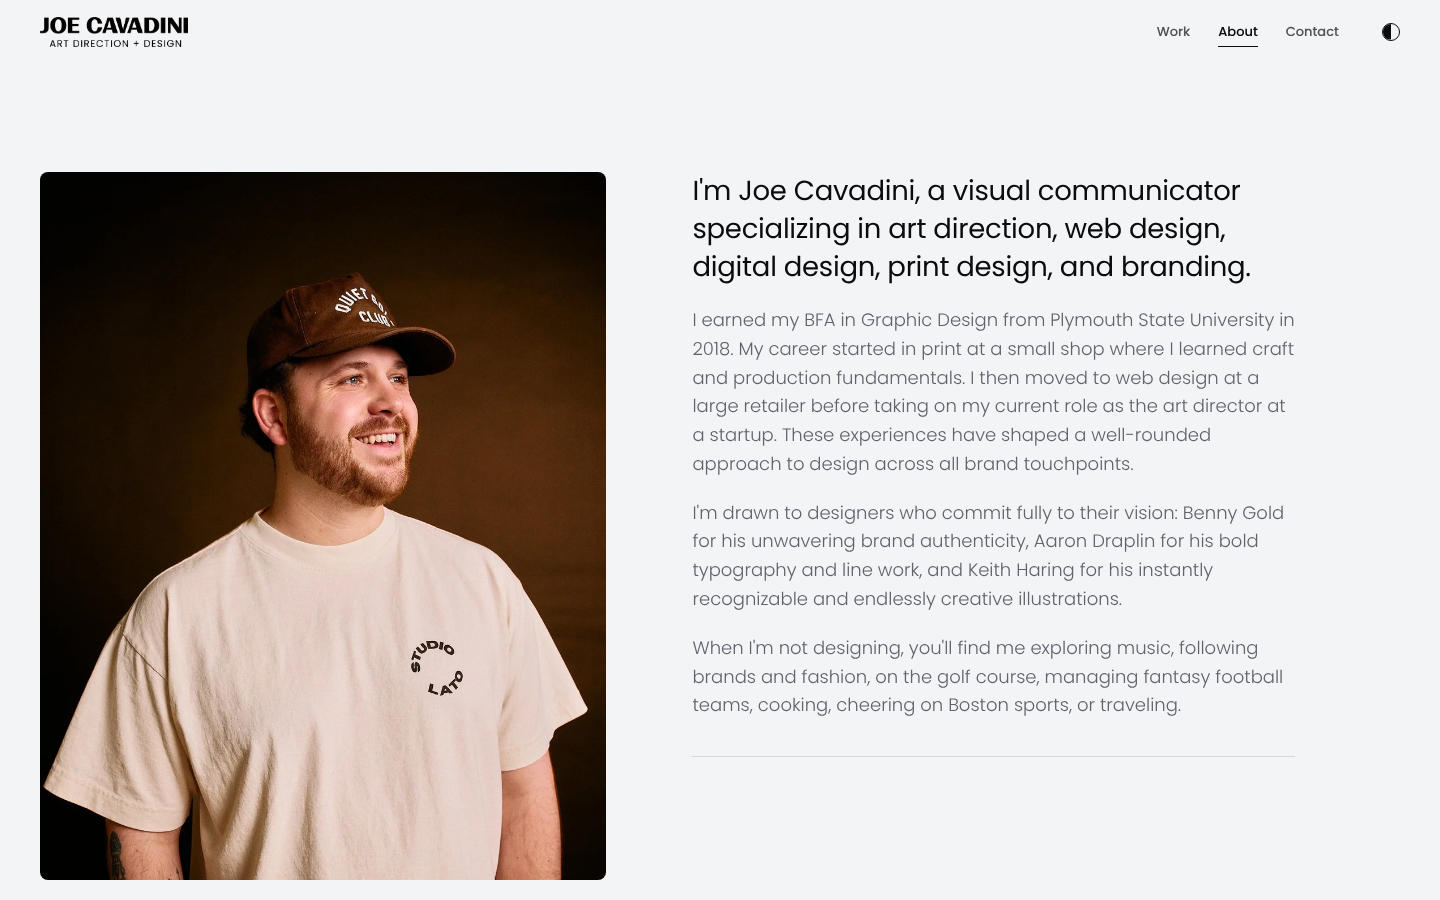
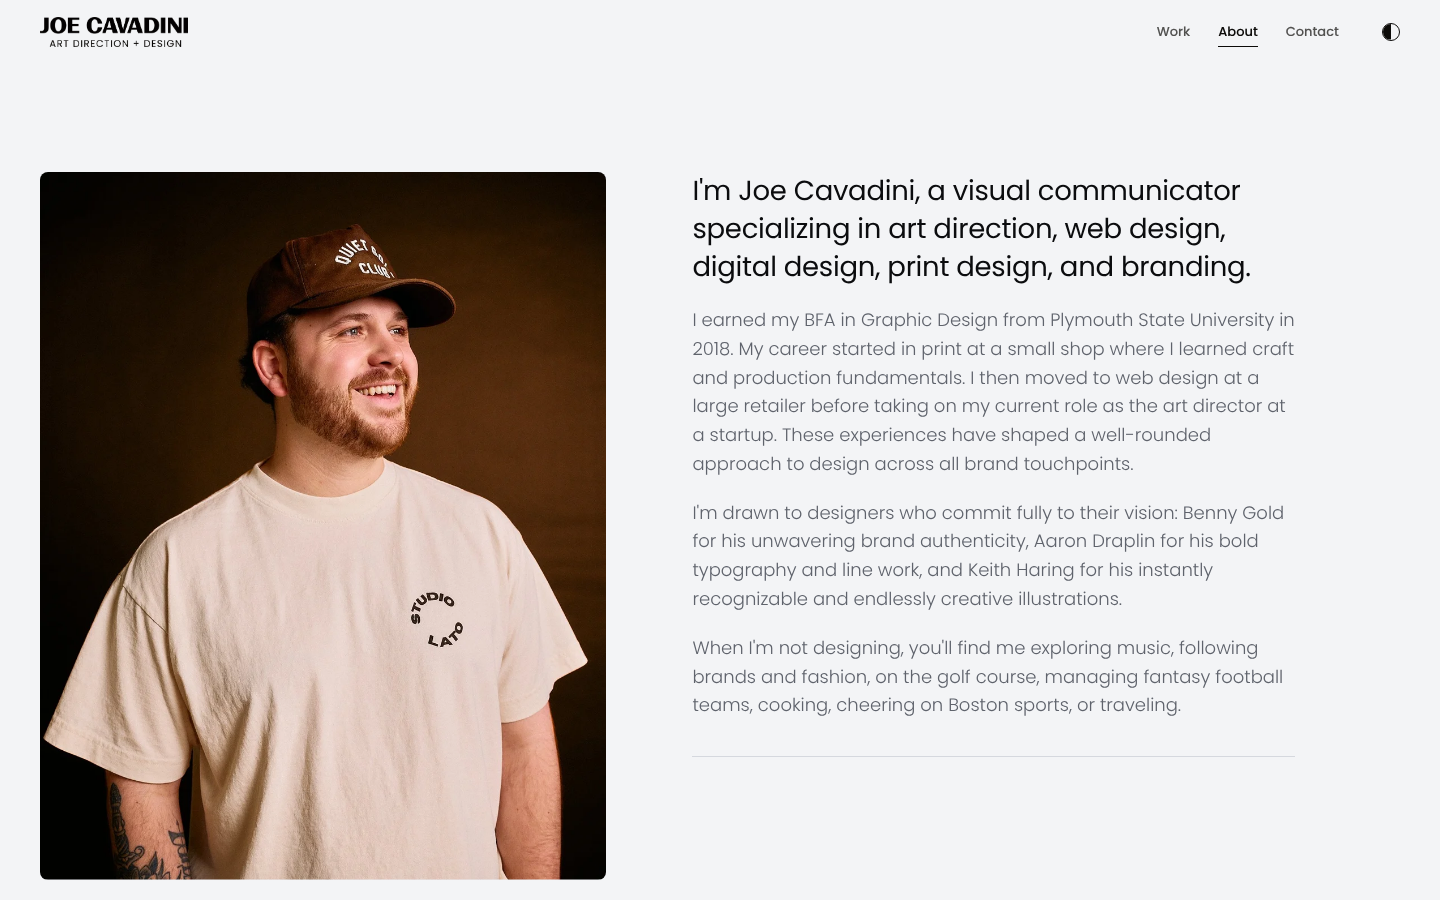
About: Resume and socials under the portrait, pinned together
Claude-Session: https://claude.ai/code/session_01XMS5rHrtm2ofgyqyFcHa86

Changed region(s): [[0.0312, 0.2489, 0.4062, 0.9956], [0.2812, 0.6533, 0.3125, 0.7778], [0.3125, 0.28, 0.3438, 0.3111]]

diff --git a/about/index.html b/about/index.html
@@ -12,7 +12,7 @@
 <meta name="twitter:card" content="summary_large_image">
 <meta name="theme-color" content="#f3f4f6">
 <link rel="preload" href="../assets/fonts/poppins-500.woff2" as="font" type="font/woff2" crossorigin>
-<link rel="stylesheet" href="../assets/css/site.css?v=2bc663f0">
+<link rel="stylesheet" href="../assets/css/site.css?v=ac9d2e9e">
 <script>document.documentElement.classList.replace('no-js','js');try{var t=localStorage.getItem('jc-theme');if(t)document.documentElement.dataset.theme=t}catch(e){}</script>
 </head>
 <body class="p-about">
@@ -41,12 +41,14 @@
 
 <h1 class="sr-only">About Joe Cavadini</h1>
 <section class="about wrap">
-  <figure class="about__portrait reveal-media"><img class="" src="../assets/img/sq/49ade822-b845-4794-b23e-b4b9fda7a83d/SKStudio_Joe0%2B1%2Bedit.jpg" srcset="../assets/img/sq/49ade822-b845-4794-b23e-b4b9fda7a83d/SKStudio_Joe0%2B1%2Bedit-1000.jpg 1000w, ../assets/img/sq/49ade822-b845-4794-b23e-b4b9fda7a83d/SKStudio_Joe0%2B1%2Bedit.jpg 2500w" sizes="(min-width: 900px) 40vw, 100vw" alt="Portrait of Joe Cavadini" fetchpriority="high" decoding="async"></figure>
+  <div class="about__side">
+    <figure class="about__portrait reveal-media"><img class="" src="../assets/img/sq/49ade822-b845-4794-b23e-b4b9fda7a83d/SKStudio_Joe0%2B1%2Bedit.jpg" srcset="../assets/img/sq/49ade822-b845-4794-b23e-b4b9fda7a83d/SKStudio_Joe0%2B1%2Bedit-1000.jpg 1000w, ../assets/img/sq/49ade822-b845-4794-b23e-b4b9fda7a83d/SKStudio_Joe0%2B1%2Bedit.jpg 2500w" sizes="(min-width: 900px) 40vw, 100vw" alt="Portrait of Joe Cavadini" fetchpriority="high" decoding="async"></figure>
+    <div class="about__links"><a class="btn btn--solid" href="../resume/">Resume</a><span class="social "><a class="social__a" href="https://www.linkedin.com/in/joecavadini/" target="_blank" rel="noopener" aria-label="LinkedIn"><svg viewBox="0 0 24 24" aria-hidden="true"><path d="M20.45 20.45h-3.56v-5.57c0-1.33-.02-3.04-1.85-3.04-1.85 0-2.14 1.45-2.14 2.94v5.67H9.34V9h3.42v1.56h.05c.48-.9 1.64-1.85 3.37-1.85 3.6 0 4.27 2.37 4.27 5.46v6.28zM5.34 7.43a2.06 2.06 0 1 1 0-4.13 2.06 2.06 0 0 1 0 4.13zM7.12 20.45H3.56V9h3.56v11.45zM22.22 0H1.77C.79 0 0 .77 0 1.73v20.54C0 23.23.79 24 1.77 24h20.45c.98 0 1.78-.77 1.78-1.73V1.73C24 .77 23.2 0 22.22 0z"/></svg></a><a class="social__a" href="https://www.instagram.com/joecav_dbg/" target="_blank" rel="noopener" aria-label="Instagram"><svg viewBox="0 0 24 24" aria-hidden="true"><path d="M12 2.16c3.2 0 3.58.01 4.85.07 1.17.05 1.8.25 2.23.41.56.22.96.48 1.38.9.42.42.68.82.9 1.38.16.42.36 1.06.41 2.23.06 1.27.07 1.65.07 4.85s-.01 3.58-.07 4.85c-.05 1.17-.25 1.8-.41 2.23-.22.56-.48.96-.9 1.38-.42.42-.82.68-1.38.9-.42.16-1.06.36-2.23.41-1.27.06-1.65.07-4.85.07s-3.58-.01-4.85-.07c-1.17-.05-1.8-.25-2.23-.41a3.72 3.72 0 0 1-1.38-.9 3.72 3.72 0 0 1-.9-1.38c-.16-.42-.36-1.06-.41-2.23C2.17 15.58 2.16 15.2 2.16 12s.01-3.58.07-4.85c.05-1.17.25-1.8.41-2.23.22-.56.48-.96.9-1.38.42-.42.82-.68 1.38-.9.42-.16 1.06-.36 2.23-.41C8.42 2.17 8.8 2.16 12 2.16zM12 0C8.74 0 8.33.01 7.05.07 5.78.13 4.9.33 4.14.63c-.79.3-1.46.72-2.13 1.38A5.88 5.88 0 0 0 .63 4.14C.33 4.9.13 5.78.07 7.05.01 8.33 0 8.74 0 12s.01 3.67.07 4.95c.06 1.27.26 2.15.56 2.91.3.79.72 1.46 1.38 2.13a5.88 5.88 0 0 0 2.13 1.38c.76.3 1.64.5 2.91.56C8.33 23.99 8.74 24 12 24s3.67-.01 4.95-.07c1.27-.06 2.15-.26 2.91-.56a5.88 5.88 0 0 0 2.13-1.38 5.88 5.88 0 0 0 1.38-2.13c.3-.76.5-1.64.56-2.91.06-1.28.07-1.69.07-4.95s-.01-3.67-.07-4.95c-.06-1.27-.26-2.15-.56-2.91a5.88 5.88 0 0 0-1.38-2.13A5.88 5.88 0 0 0 19.86.63C19.1.33 18.22.13 16.95.07 15.67.01 15.26 0 12 0zm0 5.84a6.16 6.16 0 1 0 0 12.32 6.16 6.16 0 0 0 0-12.32zM12 16a4 4 0 1 1 0-8 4 4 0 0 1 0 8zm6.4-11.85a1.44 1.44 0 1 0 0 2.88 1.44 1.44 0 0 0 0-2.88z"/></svg></a></span></div>
+  </div>
   <div class="about__copy">
     <p class="about__lead" data-reveal>I'm Joe Cavadini, a visual communicator specializing in art direction, web design, digital design, print design, and branding.</p>
     <p data-reveal>I earned my BFA in Graphic Design from Plymouth State University in 2018. My career started in print at a small shop where I learned craft and production fundamentals. I then moved to web design at a large retailer before taking on my current role as the art director at a startup. These experiences have shaped a well-rounded approach to design across all brand touchpoints.</p><p data-reveal>I'm drawn to designers who commit fully to their vision: Benny Gold for his unwavering brand authenticity, Aaron Draplin for his bold typography and line work, and Keith Haring for his instantly recognizable and endlessly creative illustrations.</p><p data-reveal>When I'm not designing, you'll find me exploring music, following brands and fashion, on the golf course, managing fantasy football teams, cooking, cheering on Boston sports, or traveling.</p>
     <dl class="facts"><div data-reveal><dt class="label">Education</dt><dd>BFA, Graphic Design<br>Plymouth State University, 2018</dd></div><div data-reveal><dt class="label">Tools</dt><dd>Figma, Adobe CC, Sketch,<br>Squarespace, Shopify, Webflow, Framer</dd></div></dl>
-    <div class="about__links"><a class="btn btn--solid" href="../resume/">Resume</a><span class="social "><a class="social__a" href="https://www.linkedin.com/in/joecavadini/" target="_blank" rel="noopener" aria-label="LinkedIn"><svg viewBox="0 0 24 24" aria-hidden="true"><path d="M20.45 20.45h-3.56v-5.57c0-1.33-.02-3.04-1.85-3.04-1.85 0-2.14 1.45-2.14 2.94v5.67H9.34V9h3.42v1.56h.05c.48-.9 1.64-1.85 3.37-1.85 3.6 0 4.27 2.37 4.27 5.46v6.28zM5.34 7.43a2.06 2.06 0 1 1 0-4.13 2.06 2.06 0 0 1 0 4.13zM7.12 20.45H3.56V9h3.56v11.45zM22.22 0H1.77C.79 0 0 .77 0 1.73v20.54C0 23.23.79 24 1.77 24h20.45c.98 0 1.78-.77 1.78-1.73V1.73C24 .77 23.2 0 22.22 0z"/></svg></a><a class="social__a" href="https://www.instagram.com/joecav_dbg/" target="_blank" rel="noopener" aria-label="Instagram"><svg viewBox="0 0 24 24" aria-hidden="true"><path d="M12 2.16c3.2 0 3.58.01 4.85.07 1.17.05 1.8.25 2.23.41.56.22.96.48 1.38.9.42.42.68.82.9 1.38.16.42.36 1.06.41 2.23.06 1.27.07 1.65.07 4.85s-.01 3.58-.07 4.85c-.05 1.17-.25 1.8-.41 2.23-.22.56-.48.96-.9 1.38-.42.42-.82.68-1.38.9-.42.16-1.06.36-2.23.41-1.27.06-1.65.07-4.85.07s-3.58-.01-4.85-.07c-1.17-.05-1.8-.25-2.23-.41a3.72 3.72 0 0 1-1.38-.9 3.72 3.72 0 0 1-.9-1.38c-.16-.42-.36-1.06-.41-2.23C2.17 15.58 2.16 15.2 2.16 12s.01-3.58.07-4.85c.05-1.17.25-1.8.41-2.23.22-.56.48-.96.9-1.38.42-.42.82-.68 1.38-.9.42-.16 1.06-.36 2.23-.41C8.42 2.17 8.8 2.16 12 2.16zM12 0C8.74 0 8.33.01 7.05.07 5.78.13 4.9.33 4.14.63c-.79.3-1.46.72-2.13 1.38A5.88 5.88 0 0 0 .63 4.14C.33 4.9.13 5.78.07 7.05.01 8.33 0 8.74 0 12s.01 3.67.07 4.95c.06 1.27.26 2.15.56 2.91.3.79.72 1.46 1.38 2.13a5.88 5.88 0 0 0 2.13 1.38c.76.3 1.64.5 2.91.56C8.33 23.99 8.74 24 12 24s3.67-.01 4.95-.07c1.27-.06 2.15-.26 2.91-.56a5.88 5.88 0 0 0 2.13-1.38 5.88 5.88 0 0 0 1.38-2.13c.3-.76.5-1.64.56-2.91.06-1.28.07-1.69.07-4.95s-.01-3.67-.07-4.95c-.06-1.27-.26-2.15-.56-2.91a5.88 5.88 0 0 0-1.38-2.13A5.88 5.88 0 0 0 19.86.63C19.1.33 18.22.13 16.95.07 15.67.01 15.26 0 12 0zm0 5.84a6.16 6.16 0 1 0 0 12.32 6.16 6.16 0 0 0 0-12.32zM12 16a4 4 0 1 1 0-8 4 4 0 0 1 0 8zm6.4-11.85a1.44 1.44 0 1 0 0 2.88 1.44 1.44 0 0 0 0-2.88z"/></svg></a></span></div>
     <section class="about__process" aria-labelledby="process-h" data-process>
       <h2 id="process-h" class="h-section">Process</h2>
       <p class="muted" data-reveal>From the first question to the final file.</p>

diff --git a/assets/css/site.css b/assets/css/site.css
@@ -1159,3 +1159,10 @@ body { letter-spacing: 0; }
   .about__process .process__step { position: static; min-height: 0; }
   .about__process .process__step:last-child { border-bottom: 1px solid var(--line); }
 }
+
+/* About: Resume + socials sit under the portrait; both stay pinned together */
+.about__side { position: sticky; top: calc(var(--hdr-h) + 24px); align-self: start; display: grid; gap: 20px; }
+.about__side .about__portrait { position: relative; top: 0; }
+.about__side .about__links { margin-top: 0; }
+@media (min-width: 861px) { .about__side .about__portrait { max-height: calc(100svh - var(--hdr-h) - 48px - 64px); } }
+@media (max-width: 860px) { .about__side { position: relative; top: 0; } }

diff --git a/404.html b/404.html
@@ -12,7 +12,7 @@
 <meta name="twitter:card" content="summary_large_image">
 <meta name="theme-color" content="#f3f4f6">
 <link rel="preload" href="/joecavdesign/assets/fonts/poppins-500.woff2" as="font" type="font/woff2" crossorigin>
-<link rel="stylesheet" href="/joecavdesign/assets/css/site.css?v=2bc663f0">
+<link rel="stylesheet" href="/joecavdesign/assets/css/site.css?v=ac9d2e9e">
 <script>document.documentElement.classList.replace('no-js','js');try{var t=localStorage.getItem('jc-theme');if(t)document.documentElement.dataset.theme=t}catch(e){}</script>
 </head>
 <body class="p-404">

diff --git a/contact/index.html b/contact/index.html
@@ -12,7 +12,7 @@
 <meta name="twitter:card" content="summary_large_image">
 <meta name="theme-color" content="#f3f4f6">
 <link rel="preload" href="../assets/fonts/poppins-500.woff2" as="font" type="font/woff2" crossorigin>
-<link rel="stylesheet" href="../assets/css/site.css?v=2bc663f0">
+<link rel="stylesheet" href="../assets/css/site.css?v=ac9d2e9e">
 <script>document.documentElement.classList.replace('no-js','js');try{var t=localStorage.getItem('jc-theme');if(t)document.documentElement.dataset.theme=t}catch(e){}</script>
 </head>
 <body class="p-contact">

diff --git a/resume/index.html b/resume/index.html
@@ -12,7 +12,7 @@
 <meta name="twitter:card" content="summary_large_image">
 <meta name="theme-color" content="#f3f4f6">
 <link rel="preload" href="../assets/fonts/poppins-500.woff2" as="font" type="font/woff2" crossorigin>
-<link rel="stylesheet" href="../assets/css/site.css?v=2bc663f0">
+<link rel="stylesheet" href="../assets/css/site.css?v=ac9d2e9e">
 <script>document.documentElement.classList.replace('no-js','js');try{var t=localStorage.getItem('jc-theme');if(t)document.documentElement.dataset.theme=t}catch(e){}</script>
 </head>
 <body class="p-resume">

diff --git a/arccos-link-pro/index.html b/arccos-link-pro/index.html
@@ -12,7 +12,7 @@
 <meta name="twitter:card" content="summary_large_image">
 <meta name="theme-color" content="#f3f4f6">
 <link rel="preload" href="../assets/fonts/poppins-500.woff2" as="font" type="font/woff2" crossorigin>
-<link rel="stylesheet" href="../assets/css/site.css?v=2bc663f0">
+<link rel="stylesheet" href="../assets/css/site.css?v=ac9d2e9e">
 <script>document.documentElement.classList.replace('no-js','js');try{var t=localStorage.getItem('jc-theme');if(t)document.documentElement.dataset.theme=t}catch(e){}</script>
 </head>
 <body class="p-proj">

diff --git a/arccos-meta-ai-glasses/index.html b/arccos-meta-ai-glasses/index.html
@@ -12,7 +12,7 @@
 <meta name="twitter:card" content="summary_large_image">
 <meta name="theme-color" content="#f3f4f6">
 <link rel="preload" href="../assets/fonts/poppins-500.woff2" as="font" type="font/woff2" crossorigin>
-<link rel="stylesheet" href="../assets/css/site.css?v=2bc663f0">
+<link rel="stylesheet" href="../assets/css/site.css?v=ac9d2e9e">
 <script>document.documentElement.classList.replace('no-js','js');try{var t=localStorage.getItem('jc-theme');if(t)document.documentElement.dataset.theme=t}catch(e){}</script>
 </head>
 <body class="p-proj">

diff --git a/arccos-partnership-commercial/index.html b/arccos-partnership-commercial/index.html
@@ -12,7 +12,7 @@
 <meta name="twitter:card" content="summary_large_image">
 <meta name="theme-color" content="#f3f4f6">
 <link rel="preload" href="../assets/fonts/poppins-500.woff2" as="font" type="font/woff2" crossorigin>
-<link rel="stylesheet" href="../assets/css/site.css?v=2bc663f0">
+<link rel="stylesheet" href="../assets/css/site.css?v=ac9d2e9e">
 <script>document.documentElement.classList.replace('no-js','js');try{var t=localStorage.getItem('jc-theme');if(t)document.documentElement.dataset.theme=t}catch(e){}</script>
 </head>
 <body class="p-proj">

diff --git a/arccos-ping/index.html b/arccos-ping/index.html
@@ -12,7 +12,7 @@
 <meta name="twitter:card" content="summary_large_image">
 <meta name="theme-color" content="#f3f4f6">
 <link rel="preload" href="../assets/fonts/poppins-500.woff2" as="font" type="font/woff2" crossorigin>
-<link rel="stylesheet" href="../assets/css/site.css?v=2bc663f0">
+<link rel="stylesheet" href="../assets/css/site.css?v=ac9d2e9e">
 <script>document.documentElement.classList.replace('no-js','js');try{var t=localStorage.getItem('jc-theme');if(t)document.documentElement.dataset.theme=t}catch(e){}</script>
 </head>
 <body class="p-proj">

diff --git a/arccos-simple/index.html b/arccos-simple/index.html
@@ -12,7 +12,7 @@
 <meta name="twitter:card" content="summary_large_image">
 <meta name="theme-color" content="#f3f4f6">
 <link rel="preload" href="../assets/fonts/poppins-500.woff2" as="font" type="font/woff2" crossorigin>
-<link rel="stylesheet" href="../assets/css/site.css?v=2bc663f0">
+<link rel="stylesheet" href="../assets/css/site.css?v=ac9d2e9e">
 <script>document.documentElement.classList.replace('no-js','js');try{var t=localStorage.getItem('jc-theme');if(t)document.documentElement.dataset.theme=t}catch(e){}</script>
 </head>
 <body class="p-proj">

diff --git a/arccosrangefinder/index.html b/arccosrangefinder/index.html
@@ -12,7 +12,7 @@
 <meta name="twitter:card" content="summary_large_image">
 <meta name="theme-color" content="#f3f4f6">
 <link rel="preload" href="../assets/fonts/poppins-500.woff2" as="font" type="font/woff2" crossorigin>
-<link rel="stylesheet" href="../assets/css/site.css?v=2bc663f0">
+<link rel="stylesheet" href="../assets/css/site.css?v=ac9d2e9e">
 <script>document.documentElement.classList.replace('no-js','js');try{var t=localStorage.getItem('jc-theme');if(t)document.documentElement.dataset.theme=t}catch(e){}</script>
 </head>
 <body class="p-proj">

diff --git a/jjill-spring-preview/index.html b/jjill-spring-preview/index.html
@@ -12,7 +12,7 @@
 <meta name="twitter:card" content="summary_large_image">
 <meta name="theme-color" content="#f3f4f6">
 <link rel="preload" href="../assets/fonts/poppins-500.woff2" as="font" type="font/woff2" crossorigin>
-<link rel="stylesheet" href="../assets/css/site.css?v=2bc663f0">
+<link rel="stylesheet" href="../assets/css/site.css?v=ac9d2e9e">
 <script>document.documentElement.classList.replace('no-js','js');try{var t=localStorage.getItem('jc-theme');if(t)document.documentElement.dataset.theme=t}catch(e){}</script>
 </head>
 <body class="p-proj">
